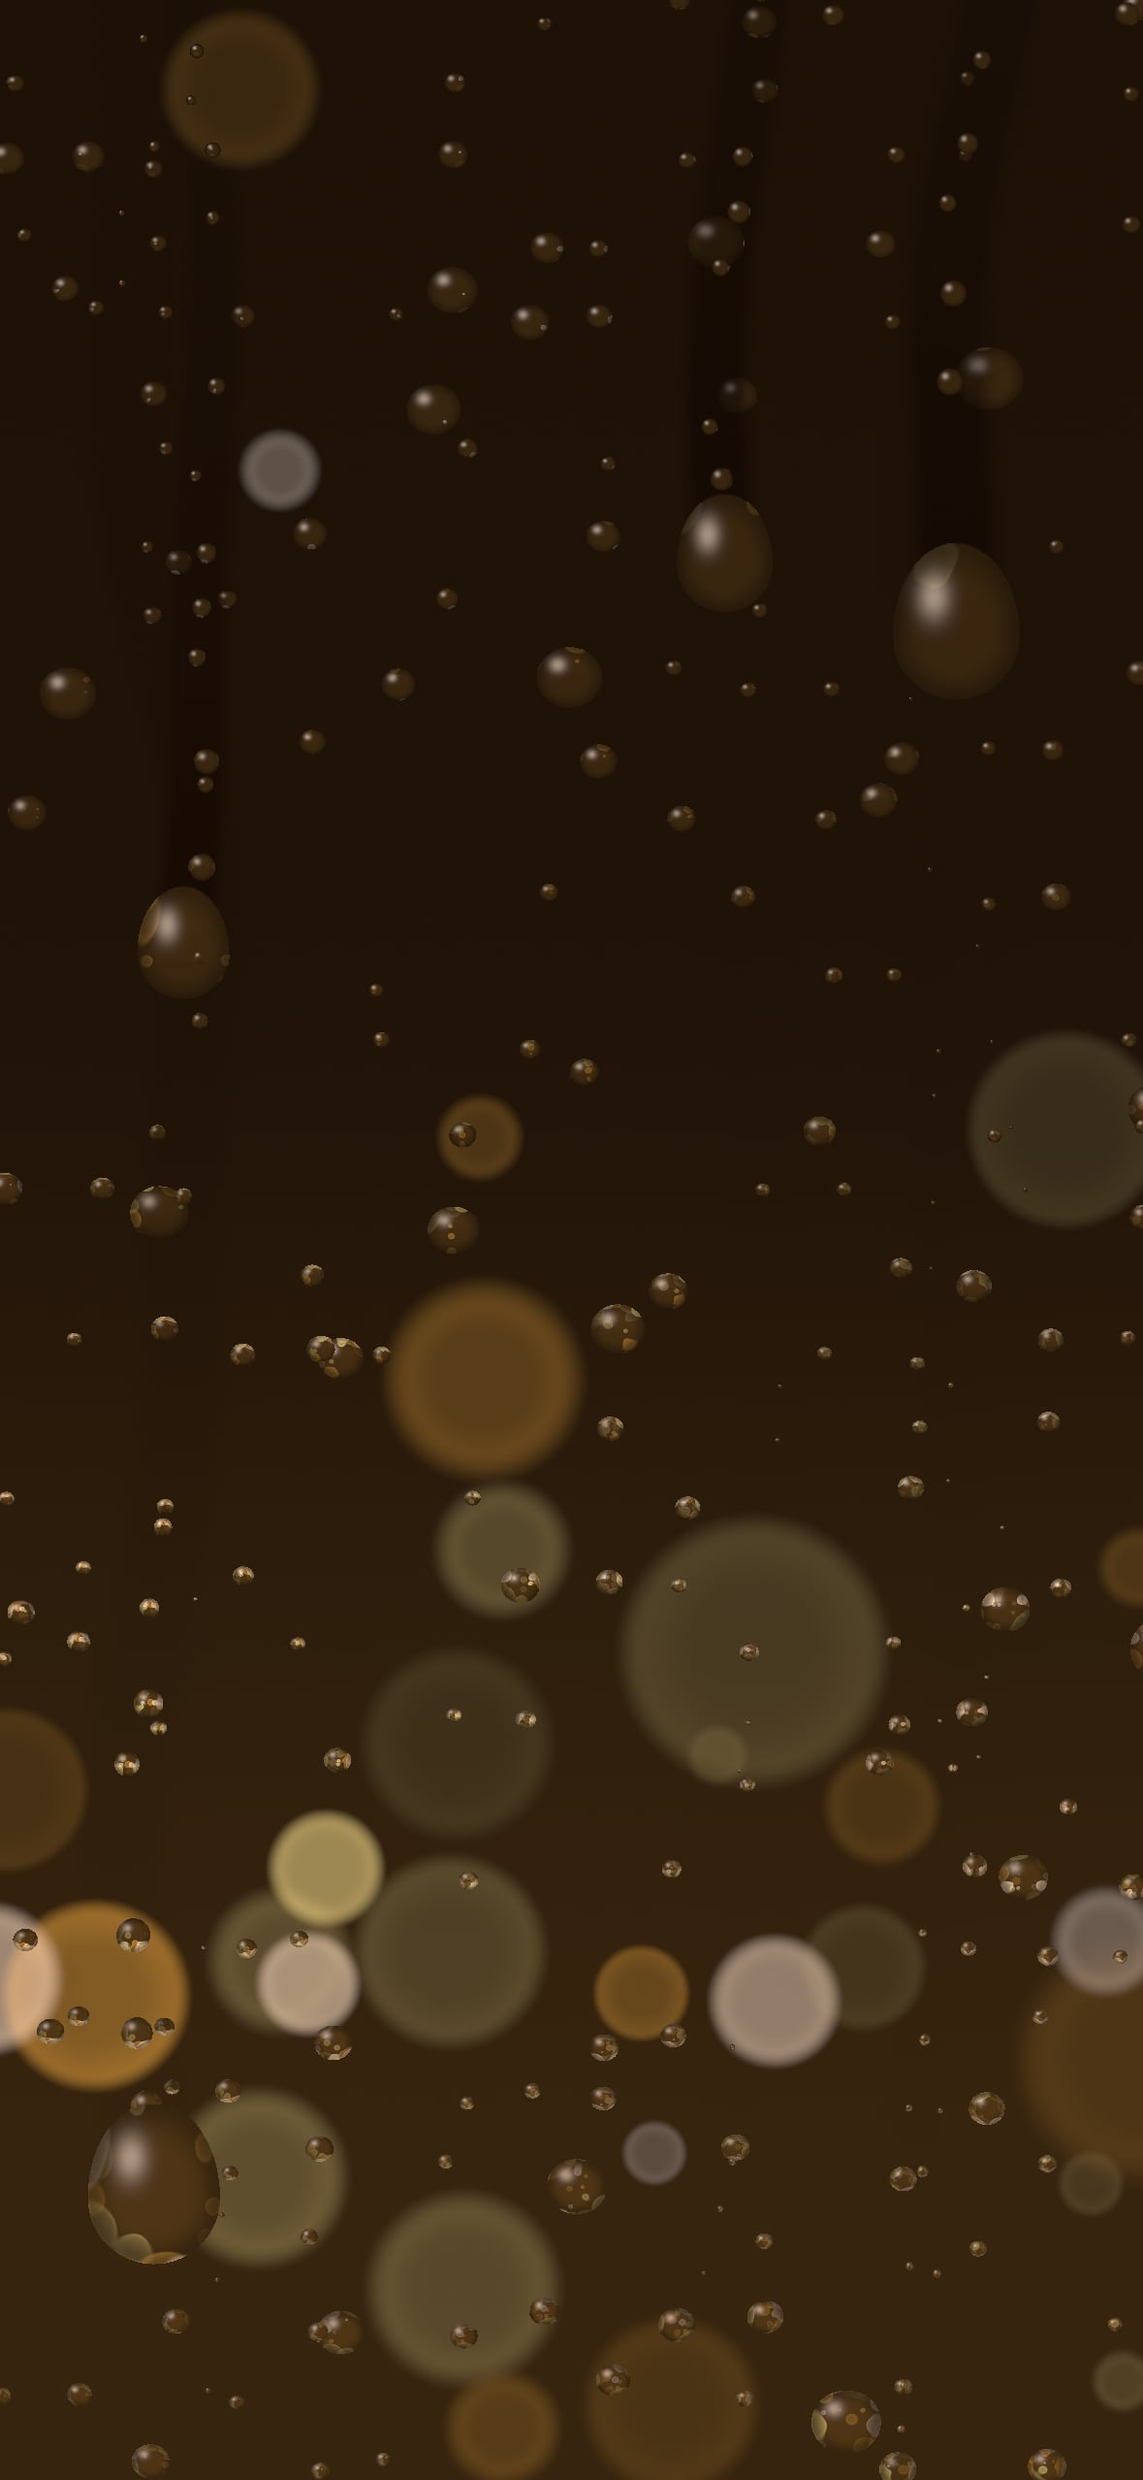
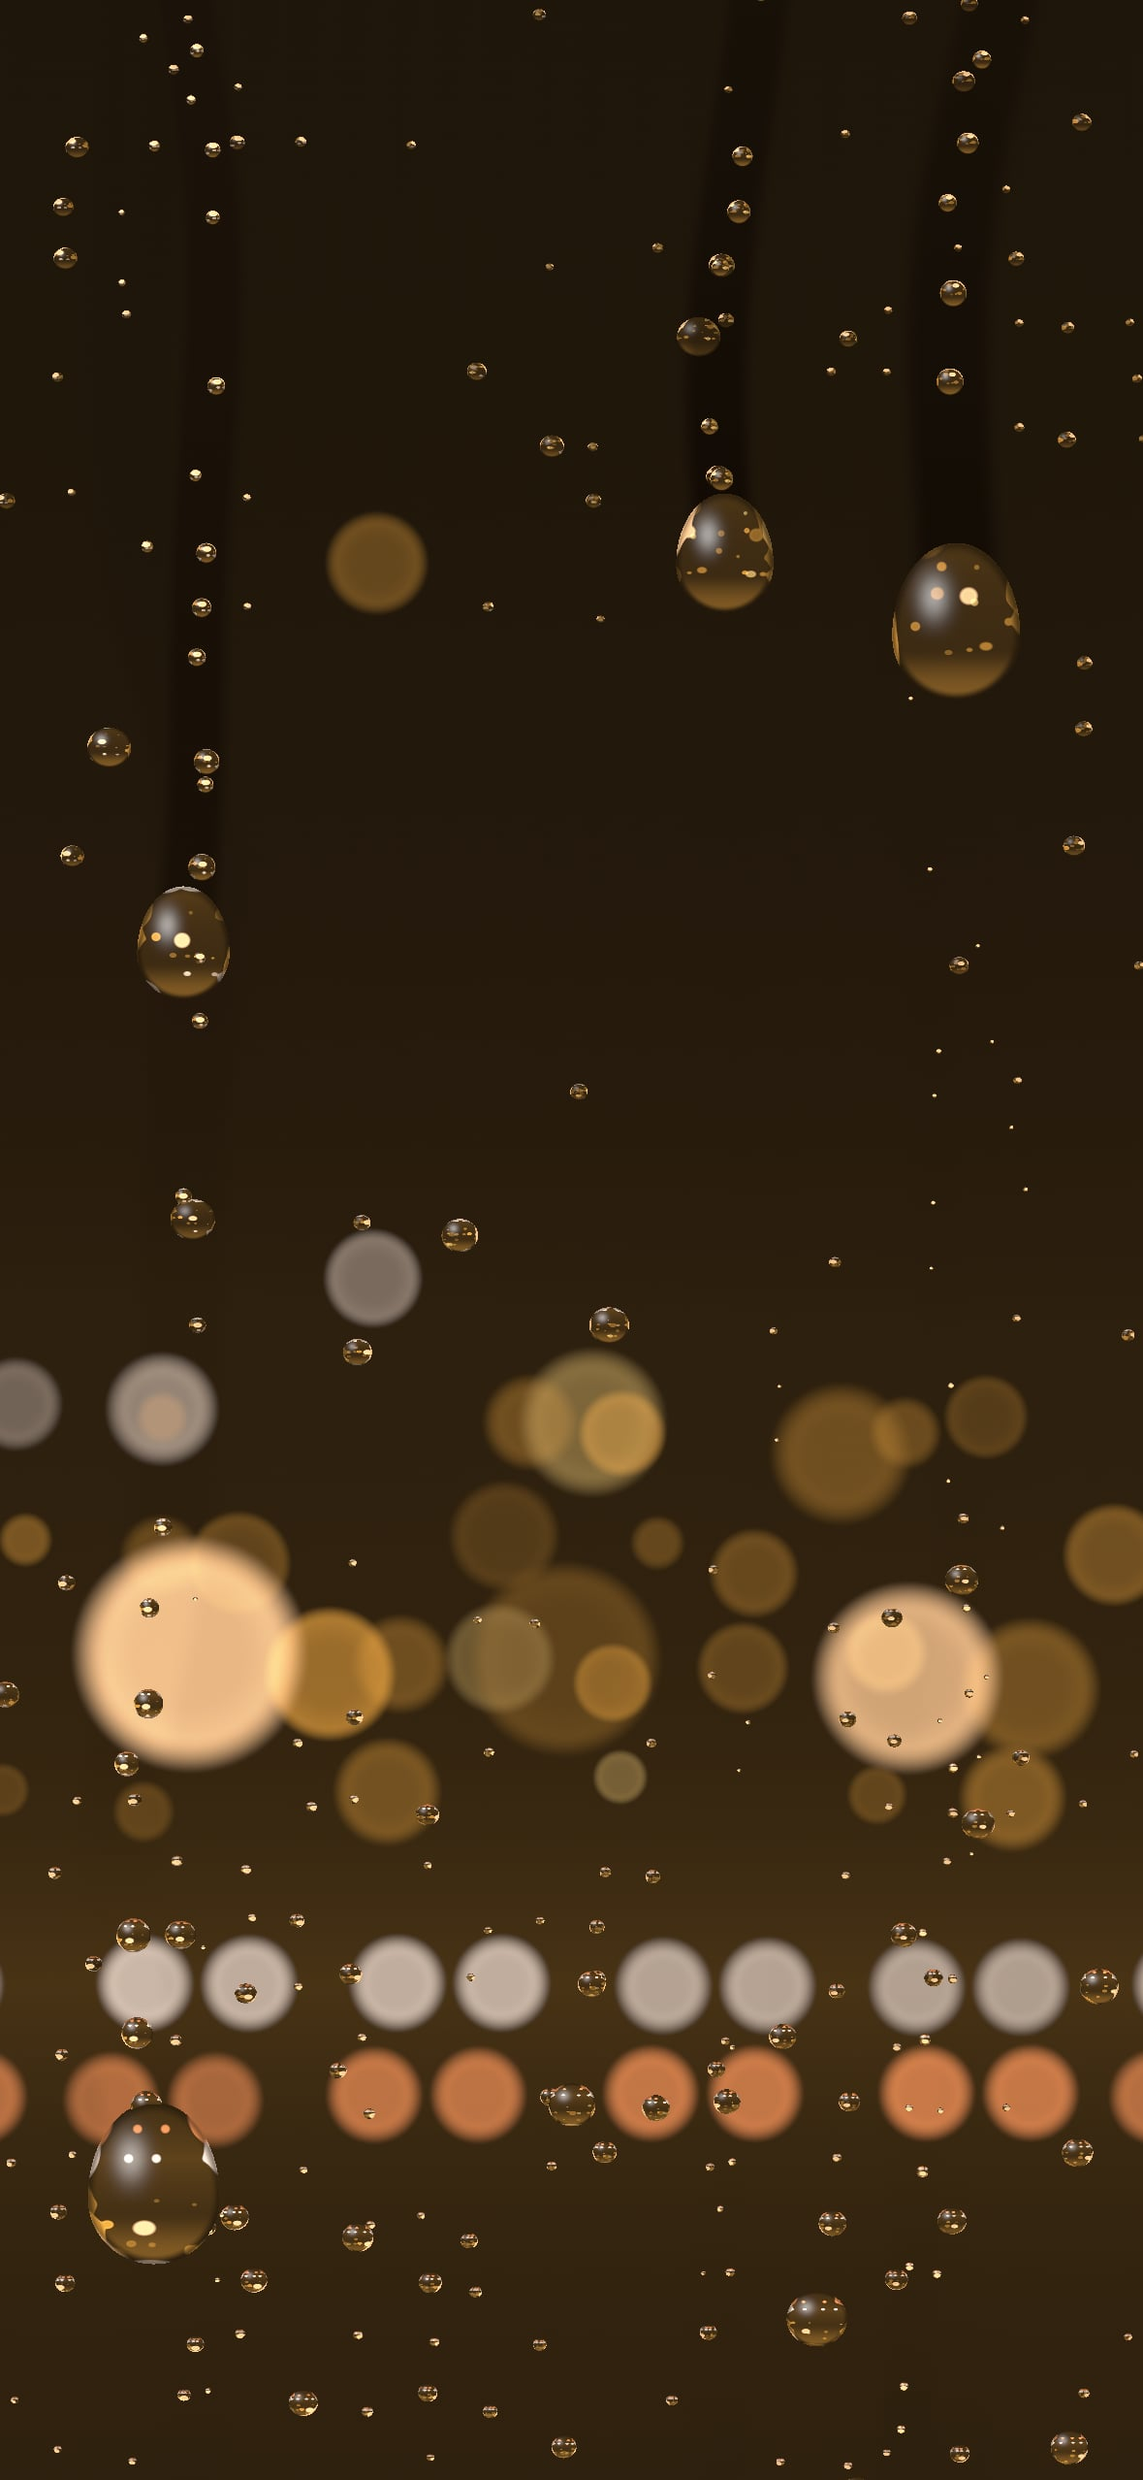
fix(live): Monsoon Glass reads as rain on a window over a night city

diff --git a/src/live/scenes/monsoon-glass.ts b/src/live/scenes/monsoon-glass.ts
@@ -12,7 +12,7 @@ type P = Params & {
 };
 
 const params: ParamSchema<P> = {
-  bg: { kind: "color", label: "Night", default: "#0a1028", group: "Colours", role: "bg" },
+  bg: { kind: "color", label: "Night", default: "#0c1736", group: "Colours", role: "bg" },
   light: { kind: "color", label: "Street lights", default: "#ffa940", group: "Colours", role: "accent" },
   neon: { kind: "color", label: "Neon", default: "#ff4f9a", group: "Colours", role: "fg" },
   rain: { kind: "range", label: "Rain", min: 0.2, max: 1, step: 0.05, default: 0.65, group: "Glass" },
@@ -23,83 +23,115 @@ const params: ParamSchema<P> = {
 
 const presets: Preset<P>[] = [
   { id: "mumbai-night", title: "Mumbai night", params: {} },
-  { id: "amber", title: "Amber", params: { bg: "#170a04", light: "#ffb347", neon: "#ffe08a", rain: 0.55, blur: 1.15, seed: 12 } },
+  { id: "amber", title: "Amber", params: { bg: "#0e0603", light: "#ffb347", neon: "#ffd27a", rain: 0.55, blur: 1.15, seed: 12 } },
   { id: "teal", title: "Teal", params: { bg: "#03141a", light: "#3fe0cf", neon: "#7d9dff", rain: 0.75, blur: 0.9, seed: 21 } },
   { id: "grey-day", title: "Grey day", params: { bg: "#7f878f", light: "#fff3dc", neon: "#cfe2ee", rain: 0.85, blur: 1.3, seed: 33 } },
 ];
 
 /*
- * Rain on a window at night, in 2.5D. Behind the glass is a city of defocused lights: bokeh discs
- * drawn analytically at any blur (no blur taps), with a band of traffic. On the glass are fixed
- * beads, and drops that slide down in columns with stick-slip pauses, leaving clear trails dotted
+ * Rain on a window at night, in 2.5D. Behind the glass is a city of defocused lights, all bokeh discs
+ * drawn analytically at any blur (no blur taps): windows clustered in low blocks and a few towers
+ * under a dark sky, a row of street lamps, and two lanes of cars (headlight and tail-light pairs).
+ * On the glass are beads gathered in patches, and drops that slide down in columns with stick-slip pauses, leaving clear trails dotted
  * with droplets that dry as the trail fades. Each sliding drop runs a whole number of cycles of a
  * 1.5-high path per loop, so it leaves the bottom and comes back from above the top, and the whole
  * field repeats once per loop. Drops refract the city (the lookup is offset by the drop's dome
- * normal, which shows it flipped and sharper); the misted glass between them veils it. The
- * traffic scrolls one full period of its lights per loop, and the mouse shifts the city behind the
+ * normal and centred on the street, which shows it flipped, small and sharper) and glow brighter
+ * than the misted glass between them. The traffic scrolls one full period of its cars per loop, and the mouse shifts the city behind the
  * glass for parallax.
  */
 const fragment = /* glsl */ `
-const float H = 1.5;     // height of one sliding-drop cycle (taller than the screen)
-const float TOP = 0.75;  // drops start above the top edge (y = 0.5)
+const float H = 1.5;          // height of one sliding-drop cycle (taller than the screen)
+const float TOP = 0.75;       // drops start above the top edge (y = 0.5)
+const float HORIZON = -0.04;  // where the low city meets the sky
+const float STREET = -0.3;    // the traffic lanes
 
 // Angle of k whole turns per loop, wrapped first so phase 1 lands on exactly the angles of phase 0.
 float turns(float k) { return TAU * fract(uPhase * k); }
 
-vec3 lightColour(float h) {
-  vec3 warm = toLinear(u_light), neon = toLinear(u_neon);
-  if (h < 0.55) return warm;
-  if (h < 0.85) return neon;
-  return mix(warm, vec3(1.0), 0.6);
+// A soft disc of radius r with an edge soft wide (both > 0): 1 inside, 0 outside.
+float disc(float d, float r, float soft) { return 1.0 - smoothstep(r - soft, r, d); }
+
+// Top of the skyline at x: low blocks along a gentle rise, with a few tall towers.
+float skyline(float x) {
+  const float BW = 0.15;
+  float bi = floor(x / BW);
+  float h = hash21(vec2(bi, uSeed * 29.0));
+  float tower = step(0.62, h) * (0.1 + 0.3 * pow(hash21(vec2(bi, uSeed * 31.0 + 4.0)), 1.5));
+  return HORIZON + 0.025 * sin(x * 1.7 + uSeed * 9.0) + 0.03 * h + tower;
 }
 
-// One layer of bokeh lights in cells of size s, more of them low down where the buildings are.
-vec3 bokehLayer(vec2 p, float s, float blur, float layer) {
+// Window lights in cells of size s: only inside buildings (above the street, below the skyline),
+// almost none in the open sky.
+// The cell grid is shifted by off so the two layers do not line up.
+vec3 windows(vec2 p, float s, float blur, float layer, vec2 off) {
   vec3 acc = vec3(0.0);
-  vec2 cell = floor(p / s);
+  vec2 cell = floor((p + off) / s);
+  vec3 warm = toLinear(u_light), neon = toLinear(u_neon);
   for (int j = -1; j <= 1; j++)
     for (int i = -1; i <= 1; i++) {
       vec2 c = cell + vec2(float(i), float(j));
       vec2 key = c + vec2(layer * 91.7, uSeed * 137.0);
       float h0 = hash21(key);
-      float dens = mix(0.06, 0.5, smoothstep(0.3, -0.25, (c.y + 0.5) * s));
+      vec2 mid = (c + 0.5) * s - off;
+      float inCity = step(mid.y, skyline(mid.x) - 0.01) * step(STREET + 0.06, mid.y);
+      float dens = mix(0.006, 0.6, inCity);
       if (h0 > dens) continue;
       float h1 = hash21(key + 3.1), h2 = hash21(key + 7.7), h3 = hash21(key + 11.3);
-      vec2 pos = (c + 0.3 + 0.4 * vec2(h1, h2)) * s;
-      // Never wider than about a cell, so the 3x3 neighbourhood holds every disc that reaches p.
-      float r = min(s * mix(0.14, 0.45, h3 * h3) * blur, 0.8 * s);
+      vec2 pos = (c + 0.3 + 0.4 * vec2(h1, h2)) * s - off;
+      // Never wider than 0.8 cell, so the 3x3 neighbourhood holds every disc that reaches p.
+      float r = min(s * mix(0.18, 0.42, h3) * blur, 0.8 * s);
       float d = length(p - pos);
-      float soft = r * mix(0.12, 0.4, h1) + 0.0015;
-      float disc = smoothstep(r, r - soft, d);
-      float ring = 0.7 + 0.4 * smoothstep(0.4 * r, r - soft * 0.5, d);
-      float flick = 1.0 + 0.25 * step(0.65, h3) * sin(turns(1.0 + floor(3.0 * h1)) + h2 * TAU);
-      acc += lightColour(h2) * disc * ring * flick * mix(0.12, 0.7, pow(h0 / dens, 2.0)) / (0.55 + blur);
+      float soft = r * mix(0.15, 0.4, h1) + 0.0015;
+      float ring = 0.75 + 0.35 * smoothstep(0.4 * r, r, d);
+      float flick = 1.0 + 0.25 * step(0.7, h3) * sin(turns(1.0 + floor(3.0 * h1)) + h2 * TAU);
+      vec3 col = h2 < 0.8 ? warm : (h2 < 0.93 ? neon : mix(warm, vec3(1.0), 0.6));
+      acc += col * disc(d, r, soft) * ring * flick * mix(0.25, 0.9, h0 / dens) / (0.55 + blur);
     }
   return acc;
 }
 
-// Two lanes of traffic low in the view, scrolling one full period of their lights per loop.
+// Street lamps: big, bright discs in a row just above the traffic.
+vec3 lamps(vec2 p, float blur) {
+  const float LW = 0.34;
+  vec3 acc = vec3(0.0);
+  float c0 = floor(p.x / LW);
+  for (int i = -1; i <= 1; i++) {
+    float c = c0 + float(i);
+    float h = hash21(vec2(c, uSeed * 43.0));
+    vec2 pos = vec2((c + 0.35 + 0.3 * h) * LW, STREET + 0.12 + 0.02 * h);
+    float r = min(mix(0.032, 0.048, h) * blur, 0.3 * LW);
+    float d = length(p - pos);
+    acc += mix(toLinear(u_light), vec3(1.0), 0.25) * disc(d, r, r * 0.3 + 0.0015) * (0.85 + 0.3 * smoothstep(0.4 * r, r, d)) * mix(0.8, 1.3, h);
+  }
+  return acc;
+}
+
+// Two lanes of cars, each car a pair of lights: headlights coming one way, tail lights going the
+// other. Each lane scrolls one full period of its cars per loop.
 vec3 traffic(vec2 p, float blur) {
-  const float CW = 0.16, NC = 16.0; // light spacing and lights per period
+  const float CW = 0.105, NC = 24.0; // car spacing and cars per period
+  vec3 head = mix(toLinear(u_light), vec3(1.0), 0.7);
+  vec3 tail = mix(toLinear(u_neon), vec3(1.0, 0.05, 0.03), 0.55);
   vec3 acc = vec3(0.0);
   for (int lane = 0; lane < 2; lane++) {
     float fl = float(lane);
-    float dir = lane == 0 ? 1.0 : -1.0;
-    float y0 = -0.27 - 0.045 * fl;
+    float dir = lane == 0 ? -1.0 : 1.0;
+    float y0 = STREET - 0.045 * fl;
     float x = p.x - dir * NC * CW * fract(uPhase);
     float c0 = floor(x / CW);
     for (int i = -1; i <= 1; i++) {
       float c = c0 + float(i);
       vec2 key = vec2(mod(c, NC), fl * 13.0 + uSeed * 71.0);
-      float h0 = hash21(key);
-      if (h0 > 0.6) continue;
+      if (hash21(key) > 0.82) continue;
       float h1 = hash21(key + 5.3), h2 = hash21(key + 9.1);
-      vec2 pos = vec2((c + 0.25 + 0.5 * h1) * CW, y0 + 0.035 * (h2 - 0.5));
-      float r = min(CW * mix(0.1, 0.24, h1 * h2) * blur, 0.7 * CW);
-      float d = length(vec2(x, p.y) - pos);
-      float disc = smoothstep(r, r * 0.75 - 0.0015, d);
-      vec3 col = lane == 0 ? toLinear(u_neon) : mix(toLinear(u_light), vec3(1.0), 0.5);
-      acc += col * disc * (0.8 + 0.35 * smoothstep(0.45 * r, r, d)) * mix(0.25, 0.75, h2) / (0.55 + blur);
+      float cx = (c + 0.5 + 0.2 * (h1 - 0.5)) * CW;
+      float r = min(CW * 0.17 * blur, 0.4 * CW);
+      for (int k = 0; k < 2; k++) {
+        vec2 pos = vec2(cx + (float(k) - 0.5) * CW * 0.4, y0 + 0.004 * (h2 - 0.5));
+        float d = length(vec2(x, p.y) - pos);
+        acc += (lane == 0 ? head : tail) * disc(d, r, r * 0.35 + 0.0015) * (0.8 + 0.3 * smoothstep(0.4 * r, r, d)) * mix(0.55, 0.95, h2) / (0.4 + 0.6 * blur);
+      }
     }
   }
   return acc;
@@ -108,14 +140,29 @@ vec3 traffic(vec2 p, float blur) {
 // The city behind the glass at a given blur (1 = as seen past the drops).
 vec3 city(vec2 p, float blur) {
   vec3 bg = toLinear(u_bg);
-  vec3 col = bg * mix(1.35, 0.7, smoothstep(-0.5, 0.5, p.y));
-  col += toLinear(u_light) * 0.025 * smoothstep(0.15, -0.45, p.y);
-  col += bokehLayer(p, 0.085, blur, 0.0) * 0.55;
-  col += bokehLayer(p + 0.37, 0.13, blur, 1.0) * 0.8;
-  col += bokehLayer(p + 0.71, 0.21, blur, 2.0);
-  col += bokehLayer(p * 0.5 + 0.23, 0.17, blur * 1.2, 3.0) * 0.35; // a few huge, faint near lights
+  vec3 warm = toLinear(u_light);
+  // Night sky with the city's glow low down; buildings a little darker than the glow behind them.
+  vec3 col = bg * mix(1.0, 0.55, smoothstep(HORIZON, 0.5, p.y));
+  col += (bg * 0.9 + warm * 0.012) * exp(-max(p.y - HORIZON, 0.0) * 7.0);
+  // Out of focus, so the outline is averaged across three points and the road blends in softly.
+  float e = 0.025 * blur;
+  float bld = 0.0;
+  for (int i = -1; i <= 1; i++) bld += 1.0 - smoothstep(-e, e, p.y - skyline(p.x + float(i) * e));
+  vec3 block = bg * 0.7 + warm * 0.015;
+  col = mix(col, block, bld / 3.0 * 0.8);
+  col = mix(col, block, 0.8 * (1.0 - smoothstep(STREET - 0.06, STREET + 0.06, p.y)));
+  // The wet street: a band of light round the lanes and its glow on the road below.
+  col += warm * 0.05 * exp(-abs(p.y - STREET) * 16.0);
+  col += windows(p, 0.05, blur, 0.0, vec2(0.0)) * 0.7;
+  col += windows(p, 0.09, blur, 1.0, vec2(0.31));
+  col += lamps(p, blur);
   col += traffic(p, blur);
   return col;
+}
+
+// A rough blurred average of the lit city, what a drop gathers from its wide view.
+vec3 cityGlow() {
+  return toLinear(u_bg) * 0.7 + toLinear(u_light) * 0.02 + toLinear(u_neon) * 0.01;
 }
 
 // Drops are vec4(mask, q.xy, r): q is the position inside the drop in radii (also its dome normal's
@@ -146,13 +193,13 @@ vec4 slideLayer(vec2 p, float cw, float layer, inout float clear) {
   vec2 q = (p - vec2(pathX(yd, ci, cw, h1, h2), yd)) / r;
   q.y /= q.y > 0.0 ? 1.45 : 1.0; // a short tail above the drop
   float d = length(q);
-  vec4 drop = vec4(smoothstep(1.0, 1.0 - aa / r, d), q, r);
+  vec4 drop = vec4(1.0 - smoothstep(1.0 - aa / r, 1.0, d), q, r);
 
   // The trail above the drop: how long ago the drop passed this height, as a distance along its path.
   float dy = mod(p.y - yd, H);
   float px = p.x - pathX(p.y, ci, cw, h1, h2);
   float str = exp(-dy / 0.32);
-  clear = max(clear, str * smoothstep(r * 0.85, r * 0.4, abs(px)));
+  clear = max(clear, str * (1.0 - smoothstep(r * 0.4, r * 0.85, abs(px))));
 
   // Droplets left in the trail: fixed on the glass, shrinking as the trail dries.
   float ts = cw * 0.3;
@@ -165,63 +212,68 @@ vec4 slideLayer(vec2 p, float cw, float layer, inout float clear) {
     float tr = r * mix(0.16, 0.32, t2) * sqrt(ts2);
     if (tr > 0.0008) {
       vec2 tq = (p - vec2(pathX(ty, ci, cw, h1, h2) + (t2 - 0.5) * r * 0.5, ty)) / tr;
-      drop = pickDrop(drop, vec4(smoothstep(1.0, 1.0 - aa / tr, length(tq)), tq, tr));
+      drop = pickDrop(drop, vec4(1.0 - smoothstep(1.0 - aa / tr, 1.0, length(tq)), tq, tr));
     }
   }
   return drop;
 }
 
-// Fixed beads in cells of size s, wiped away where a trail is clear.
+// Fixed beads in cells of size s, gathered in patches; most are tiny. Wiped away where a trail is clear.
 vec4 beadLayer(vec2 p, float s, float layer, float clear) {
   vec2 c = floor(p / s);
   vec2 key = c + vec2(layer * 47.0, uSeed * 97.0);
   float h0 = hash21(key);
-  if (h0 > mix(0.08, 0.42, u_rain)) return vec4(0.0);
+  float clump = noise((c + 0.5) * s * 2.4 + vec2(layer * 5.3, uSeed * 17.0));
+  if (h0 > mix(0.08, 0.6, u_rain) * smoothstep(0.3, 0.75, clump)) return vec4(0.0);
   float h1 = hash21(key + 1.3), h2 = hash21(key + 5.1), h3 = hash21(key + 6.7);
   vec2 pos = (c + 0.3 + 0.4 * vec2(h1, h2)) * s;
-  float r = s * mix(0.1, 0.27, h3 * h3);
+  float r = s * mix(0.07, 0.27, h3 * h3 * h3);
   vec2 q = (p - pos) / r;
   q.y *= 1.1;
   float aa = 1.5 / uRes.y;
-  return vec4(smoothstep(1.0, 1.0 - aa / r, length(q)) * (1.0 - clear), q, r);
+  // Small beads stay faint; only the larger ones show as clear lenses.
+  float strength = mix(0.4, 1.0, smoothstep(0.0025, 0.008, r));
+  return vec4((1.0 - smoothstep(1.0 - aa / r, 1.0, length(q))) * (1.0 - clear) * strength, q, r);
 }
 
 vec3 scene(vec2 uv) {
   float clear = 0.0;
   vec4 drop = slideLayer(uv, 0.11, 0.0, clear);
   drop = pickDrop(drop, slideLayer(uv + vec2(0.043, 0.0), 0.075, 1.0, clear));
-  drop = pickDrop(drop, beadLayer(uv, 0.03, 0.0, clear));
-  drop = pickDrop(drop, beadLayer(uv + 0.019, 0.055, 1.0, clear));
+  drop = pickDrop(drop, beadLayer(uv, 0.024, 0.0, clear));
+  drop = pickDrop(drop, beadLayer(uv + 0.019, 0.05, 1.0, clear));
   float m = drop.x;
   vec2 q = drop.yz;
   float d = length(q);
+  float rim = smoothstep(0.85, 1.0, d);
 
-  // Inside a drop the city is seen flipped and smaller (the drop is a small lens), and sharper.
+  // Inside a drop the city is seen flipped and small (the drop is a lens with a wide view), centred
+  // on the lit street band so every drop holds a few bright lights. The whole offset applies even on
+  // a drop's anti-aliased edge (a part offset would land on unrelated lights and speckle the
+  // outline); the rim's blur is high, so that edge stays soft.
   vec2 parallax = uMouse * vec2(0.035, 0.025);
-  // The view is pulled down a little, towards the street, where most of the light is.
-  // The whole offset applies even on a drop's anti-aliased edge (a part offset would land on unrelated
-  // lights and speckle the outline); the edge's blur is high, so the outer share stays soft.
   float inside = step(0.002, m);
-  vec2 lookup = uv + parallax - (q * (drop.w + 0.16) + vec2(0.0, 0.1)) * inside;
-  float mist = (1.0 - clear) * (1.0 - m);
-  // Inside a drop the image is sharper, but softened towards the rim and in tiny beads so the bent,
-  // shrunken lights never alias into single bright pixels.
-  float rim = smoothstep(0.5, 1.0, d);
-  float dropBlur = (0.5 + 1.2 * rim) * max(1.0, 0.012 / max(drop.w, 1e-4));
+  vec2 inView = vec2(uv.x - q.x * (drop.w + 0.1), mix(uv.y, STREET + 0.1, 0.8) - q.y * 0.16);
+  vec2 lookup = mix(uv, inView, inside) + parallax;
+  // Sharper inside drops, softened at the rim and in tiny beads so shrunken lights never alias.
+  float dropBlur = (0.4 + 1.2 * rim) * max(1.0, 0.01 / max(drop.w, 1e-4));
   // Outside drops the lights keep one size (the defocus is the eye's); the mist only veils them.
   float blur = u_blur * mix(1.0, dropBlur, inside);
   vec3 col = city(lookup, blur);
 
-  // Misted glass scatters a little of the city's light and lifts the blacks.
-  vec3 bg = toLinear(u_bg);
-  col = mix(col, col * 0.85 + bg * 0.3 + toLinear(u_light) * 0.008, mist * 0.6);
+  // Misted glass veils the city a little; trails and drops are clear.
+  vec3 glow = cityGlow();
+  float mist = (1.0 - clear) * (1.0 - m);
+  col = mix(col, col * 0.75 + glow * 0.4, mist * 0.7);
 
-  // Drop shading: darker rims (light bends away there), and a small highlight up and to the left.
-  // A drop gathers light from a wide view, so its body is brighter than the glass around it.
-  vec3 inDrop = (col * 1.35 + bg * 0.35 + toLinear(u_light) * 0.03) * mix(1.0, 0.45, rim);
+  // A drop is brighter than the glass: it gathers light, has a bright crescent low down where
+  // light focuses, a thin dark rim, and a highlight up and to the left.
+  vec3 inDrop = col * 1.5 + glow * 0.5;
+  inDrop += toLinear(u_light) * 0.18 * smoothstep(0.2, 0.9, -q.y) * (1.0 - rim);
+  inDrop *= mix(1.0, 0.35, rim);
+  vec2 hq = q - vec2(-0.35, 0.42);
+  inDrop += vec3(1.0) * exp(-dot(hq, hq) * 22.0) * 0.35;
   col = mix(col, inDrop, m);
-  float spec = exp(-dot(q - vec2(-0.35, 0.42), q - vec2(-0.35, 0.42)) * 22.0);
-  col += mix(toLinear(u_light), vec3(1.0), 0.6) * spec * m * 0.35;
 
   col *= mix(1.0, 0.8, smoothstep(0.45, 1.15, length(uv * vec2(0.8, 1.0))));
   return finishDither(rolloff(max(col, 0.0)));
